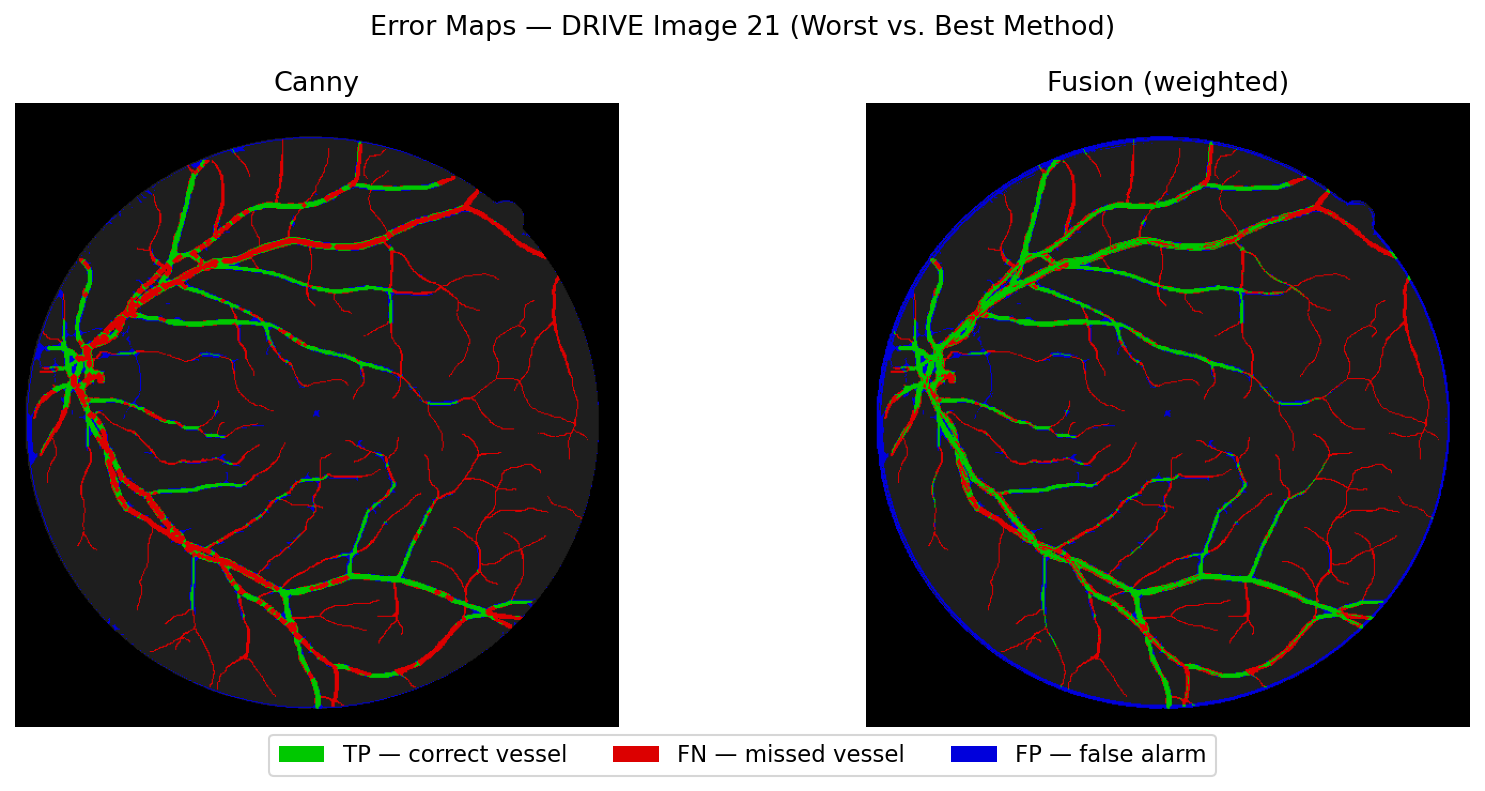
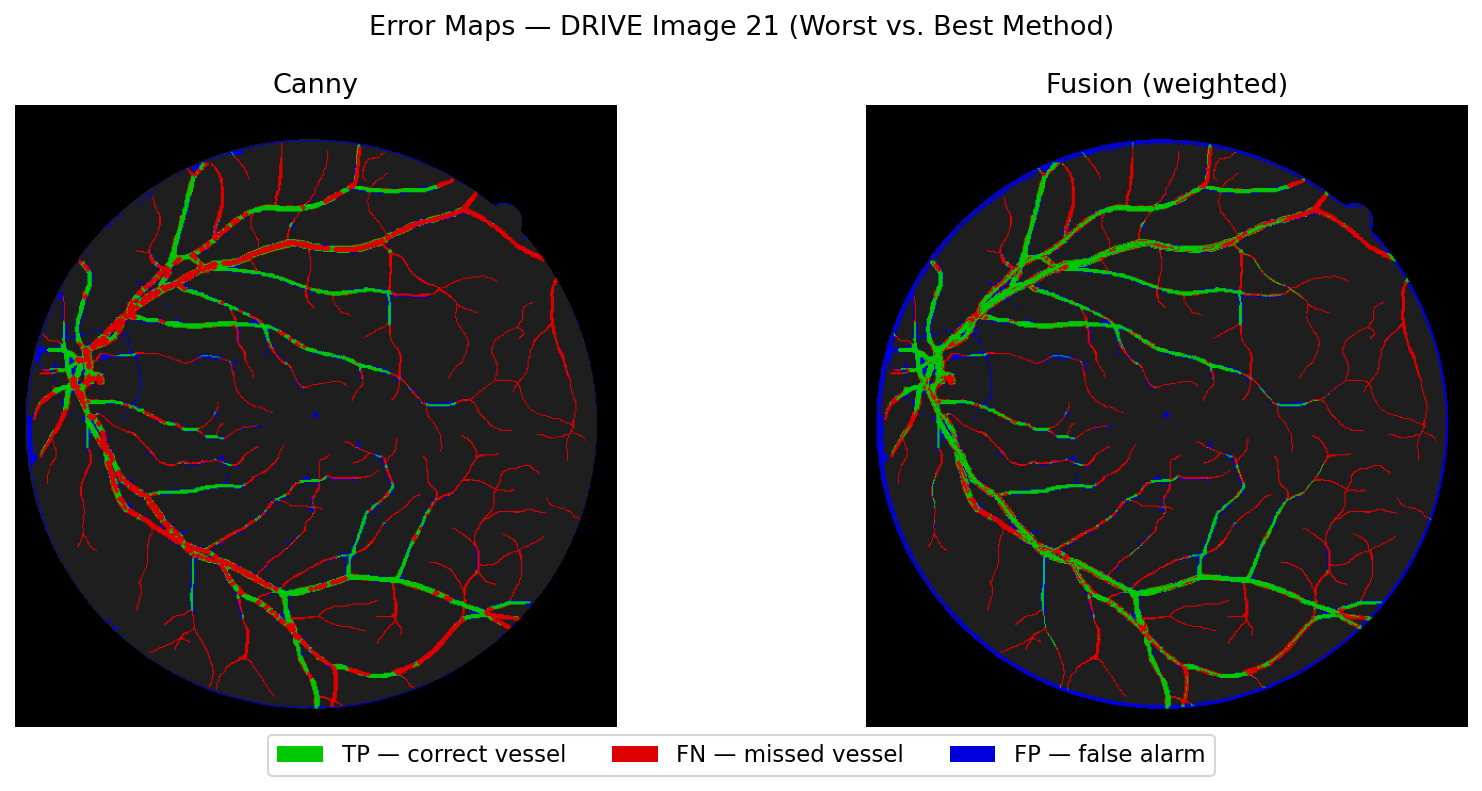
fix error_map

diff --git a/src/generate_milestone_figures.py b/src/generate_milestone_figures.py
@@ -151,6 +151,31 @@ def figure4_4panel(image, pred_canny, pred_gabor, pred_color, pred_fusion, gt, f
     print("Saved figure4_error_4panel.png")
 
 
+def figure4_1row(image, pred_canny, pred_gabor, pred_color, pred_fusion, gt, fov_mask):
+    """Single row: all four methods with minimal spacing."""
+    maps = [
+        (pred_canny,  "Canny"),
+        (pred_gabor,  "Gabor"),
+        (pred_color,  "Color Threshold"),
+        (pred_fusion, "Fusion (weighted)"),
+    ]
+
+    fig, axes = plt.subplots(1, 4, figsize=(22, 6))
+    fig.subplots_adjust(wspace=0.08)
+    for ax, (pred, title) in zip(axes, maps):
+        ax.imshow(error_map(pred, gt, fov_mask))
+        ax.set_title(title, fontsize=17)
+        ax.axis("off")
+    fig.legend(handles=LEGEND_ELEMENTS, loc="lower center", ncol=3,
+               fontsize=17, frameon=True, bbox_to_anchor=(0.5, -0.02),
+               handlelength=2.5, handleheight=1.8, borderpad=1.0,
+               labelspacing=1.0, handletextpad=0.8)
+    fig.suptitle("Per-Method Error Maps — DRIVE Image 21", fontsize=18)
+    fig.savefig(f"{OUT_DIR}/figure4_error_1row.png", dpi=150, bbox_inches="tight")
+    plt.close(fig)
+    print("Saved figure4_error_1row.png")
+
+
 if __name__ == "__main__":
     image, gt, fov_mask = load()
 
@@ -162,4 +187,5 @@ if __name__ == "__main__":
     figure2(image, edges)
     figure3(image, pred_canny, gt, fov_mask)
     figure4_2panel(image, pred_canny, pred_fusion, gt, fov_mask)
-    figure4_4panel(image, pred_canny, pred_gabor, pred_color, pred_fusion, gt, fov_mask)
+    # figure4_4panel(image, pred_canny, pred_gabor, pred_color, pred_fusion, gt, fov_mask)
+    figure4_1row(image, pred_canny, pred_gabor, pred_color, pred_fusion, gt, fov_mask)

diff --git a/CLAUDE.md b/CLAUDE.md
@@ -1,0 +1,147 @@
+# CS131 Final Project — Retinal Vessel Segmentation
+
+**Authors:** Hnin Yupar Mon & Pierre Labroche  
+**Course:** CS131 (Computer Vision)
+
+## Goal
+
+Segment blood vessels in retinal fundus images using classical (non-deep-learning) computer vision methods. Three methods are implemented and compared on the DRIVE dataset.
+
+## Environment
+
+```bash
+conda env create -f environment.yml
+conda activate cs131_project
+```
+
+Conda env name: `cs131_project`  
+Python: 3.11 | Key libs: numpy, opencv-python, scikit-image, scipy, matplotlib, pandas
+
+## Data
+
+Not committed. Must be downloaded and placed in `data/`:
+
+```
+data/
+├── DRIVE/
+│   └── training/
+│       ├── images/          # .tif files, named like 21_training.tif
+│       ├── 1st_manual/      # ground truth .gif, named like 21_manual1.gif
+│       └── mask/            # FOV masks .gif, named like 21_training_mask.gif
+└── STARE/
+    ├── stare-images/
+    ├── labels-ah/
+    └── labels-vk/
+```
+
+DRIVE: https://www.kaggle.com/datasets/andrewmvd/drive-digital-retinal-images-for-vessel-extraction  
+STARE: https://cecas.clemson.edu/~ahoover/stare/probing/index.html
+
+## Project Structure
+
+```
+src/
+  preprocessing.py          # Green channel extraction + CLAHE
+  canny.py                  # Full Canny edge detector (from scratch, no OpenCV)
+  gabor.py                  # Gabor filter bank (Soares et al. 2006, simplified)
+  color_threshold.py        # Color thresholding in Lab space
+  evaluate.py               # compute_metrics(), roc_curve(), auc()
+  fusion.py                 # Average fusion of Canny + Gabor + Color response maps
+  run_drive.py              # Main runner: one method, all 20 DRIVE training images
+  run_canny_drive.py        # (legacy canny-only runner)
+  generate_milestone_figures.py  # Produces results/figures/figure{2,3,4}*.png
+  plot_roc.py               # ROC curves for all 4 methods; outputs roc_curves.png
+outputs/
+  <method>/training/        # Per-image mask PNGs + metrics CSV
+results/figures/            # Saved comparison figures
+notebooks/explore.ipynb     # Exploration notebook
+```
+
+## How to Run
+
+All scripts must be run from the project root:
+
+```bash
+# Run a method on all 20 DRIVE training images
+python src/run_drive.py --method canny
+python src/run_drive.py --method gabor
+python src/run_drive.py --method color_threshold
+python src/run_drive.py --method fusion_avg    # average fusion
+python src/run_drive.py --method fusion_max   # max fusion (OR)
+python src/run_drive.py --method fusion_min   # min fusion (AND)
+
+# Generate milestone figures (figures 2, 3, 4)
+python src/generate_milestone_figures.py
+
+# Generate ROC curves for all 4 methods
+python src/plot_roc.py
+```
+
+Outputs go to `outputs/<method>/training/` (PNG masks + `<method>_training_metrics.csv`).  
+Figures go to `results/figures/`.
+
+## Methods
+
+### Preprocessing (`src/preprocessing.py`)
+- Extracts the **green channel** (vessels are most visible here in retinal images)
+- Applies **CLAHE** (clipLimit=2.0, tileGridSize=8×8) for local contrast enhancement
+- Returns `(green, enhanced)` tuple
+
+### Canny (`src/canny.py`)
+Fully implemented from scratch (no `cv2.Canny`):
+1. Gaussian blur (kernel size = 6σ+1, default σ=1.0)
+2. Sobel gradient (magnitude + direction)
+3. Non-maximum suppression
+4. Hysteresis thresholding (default low=0.05, high=0.15 as ratios of max)
+
+In `run_drive.py`, Canny edges are post-processed with morphological closing (`disk(2)`) + `binary_fill_holes` to convert thin edges into filled vessel regions.
+
+### Gabor (`src/gabor.py`)
+Simplified version of Soares et al. 2006:
+- 4 scales: λ ∈ {2, 3, 4, 6} pixels; σ = 0.56λ; γ = 0.5
+- 18 orientations: 0°–170° in 10° steps
+- Max response across all (scale, orientation) combinations
+- Normalized to [0,1]; binary mask via fixed threshold (default=0.1)
+  - Note: Otsu over-thresholds because vessels are ~12% of pixels
+
+### Color Threshold (`src/color_threshold.py`)
+- Convert RGB → Lab color space
+- Invert L channel (vessels are dark → become bright peaks)
+- Apply CLAHE
+- Threshold normalized L at 0.5 (default)
+
+### Evaluation (`src/evaluate.py`)
+- `compute_metrics(pred, gt, fov_mask)` → sensitivity, specificity, accuracy, F1, TP/TN/FP/FN
+- Metrics are computed only within the FOV mask
+- `roc_curve(response_map, gt, fov_mask)` → sweeps 100 thresholds [0,1]
+- `auc(fpr, tpr)` → area under the ROC curve via the trapezoidal rule
+
+### Fusion (`src/fusion.py`)
+Three fusion strategies over the normalized [0,1] response maps of all base methods:
+- `_get_response_maps(img, enhanced)` → (canny_response, gabor_response, color_response)
+- `average_fusion_segment(img, enhanced, threshold=0.5)` — element-wise mean; balanced recall/precision
+- `max_fusion_segment(img, enhanced, threshold=0.5)` — element-wise max (logical OR); maximizes recall
+- `min_fusion_segment(img, enhanced, threshold=0.5)` — element-wise min (logical AND); maximizes precision
+
+### ROC Curves (`src/plot_roc.py`)
+Generates averaged ROC curves across all 20 DRIVE training images for all four methods:
+- 200 thresholds per image; curves interpolated onto a 500-point shared FPR grid
+- Plots mean ± 1 std band per method; reports AUC in the legend
+- Output: `results/figures/roc_curves.png`
+
+## Figures Generated
+
+| File | Description |
+|------|-------------|
+| `figure2_canny.png` | Original / Canny edges / Yellow overlay |
+| `figure3_mask_vs_gt.png` | Original / Ground truth / Error map (Canny) |
+| `figure4_method_comparison.png` | Error maps for all 3 methods side-by-side |
+| `roc_curves.png` | Averaged ROC curves (mean ± 1 std) for all 4 methods with AUC |
+
+Error map colors: green=TP, red=FN, blue=FP, dark gray=TN
+
+## Notes
+
+- `run_canny_drive.py` is a legacy script superseded by `run_drive.py --method canny`
+- The Gabor implementation intentionally does NOT use OpenCV's `getGaborKernel`; kernels are built manually with `np.meshgrid` and `cv2.filter2D` is used only for the convolution step
+- Scripts use relative paths so they must be run from the project root